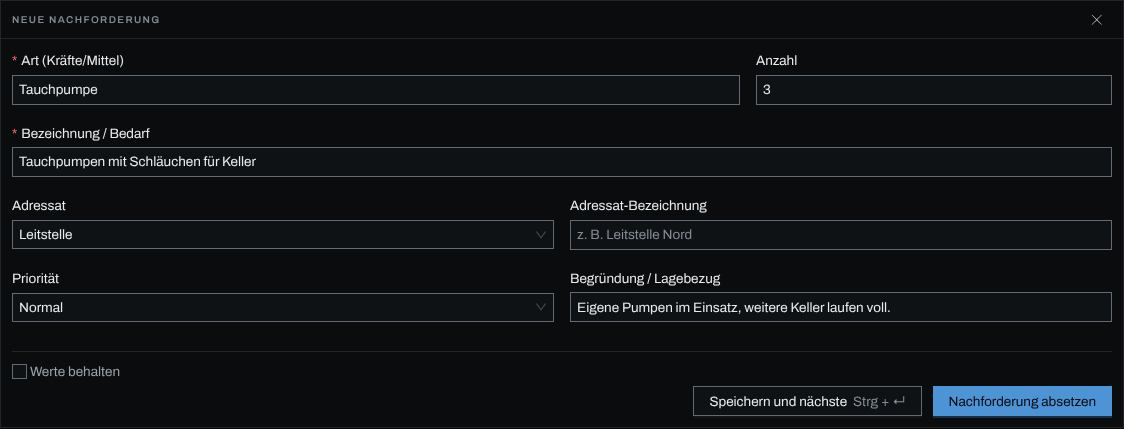
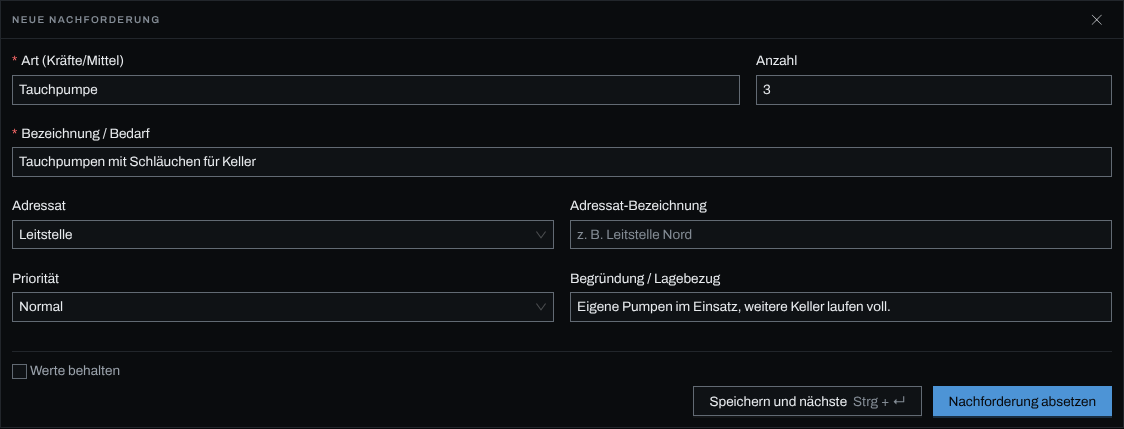
docs(anwender): Externe Stellen in Stammdaten, Einsatzdaten und Nachforderung
Neuer Ablauf „Externe Stellen pflegen“ und Hintergrund zur zuständigen
Leitstelle; Vorschläge bei der meldenden Stelle und der
Adressat-Bezeichnung, Speicherung als Text. Bild des Nachforderungs-
formulars neu erzeugt (Feld Adressat-Bezeichnung umgebaut).

LFH-1194

Claude-Session: https://claude.ai/code/session_01W9fQXgR1xM7fARsH7YveS4

diff --git a/docs/anwender/kapitel/stammdaten.md b/docs/anwender/kapitel/stammdaten.md
@@ -2,14 +2,14 @@
 titel: Stammdaten
 gruppen: [administration]
 reihenfolge: 620
-quellen: [frontend/src/admin/adminNav.tsx, frontend/src/stammdaten/FahrzeugeTab.tsx, frontend/src/stammdaten/FahrzeugFormModal.tsx, frontend/src/stammdaten/dienststatus.tsx, frontend/src/stammdaten/KatalogVerwaltung.tsx, frontend/src/stammdaten/QualifikationenTab.tsx, frontend/src/stammdaten/OrganisationTab.tsx, frontend/src/stammdaten/FuehrungsfunktionenTab.tsx, frontend/src/stammdaten/rechteText.ts, frontend/src/components/InlineAngabe.tsx, frontend/src/components/druck/Druckkopf.tsx, frontend/src/pages/lagekarte/taktischesZeichen.ts, frontend/src/einsatz/schreibrecht.ts, src/routes/organisation.rs]
+quellen: [frontend/src/admin/adminNav.tsx, frontend/src/stammdaten/FahrzeugeTab.tsx, frontend/src/stammdaten/FahrzeugFormModal.tsx, frontend/src/stammdaten/dienststatus.tsx, frontend/src/stammdaten/KatalogVerwaltung.tsx, frontend/src/stammdaten/QualifikationenTab.tsx, frontend/src/stammdaten/OrganisationTab.tsx, frontend/src/stammdaten/FuehrungsfunktionenTab.tsx, frontend/src/stammdaten/ExterneStellenTab.tsx, frontend/src/stammdaten/ExterneStelleFormModal.tsx, frontend/src/stammdaten/rechteText.ts, frontend/src/components/InlineAngabe.tsx, frontend/src/components/druck/Druckkopf.tsx, frontend/src/pages/lagekarte/taktischesZeichen.ts, frontend/src/einsatz/schreibrecht.ts, src/routes/organisation.rs, src/externe_stelle/repo.rs]
 ---
 
 ## Überblick
 
 Stammdaten sind das, was eine Organisation über jeden Einsatz hinweg vorhält: Fahrzeuge,
 Material und Personal, dazu die Kataloge, aus denen Einsätze schöpfen (Einsatz-Stichworte,
-Qualifikationen, Status, ETB-Schnellbausteine, Einheitstypen, Sprechgruppen,
+externe Stellen, Qualifikationen, Status, ETB-Schnellbausteine, Einheitstypen, Sprechgruppen,
 Führungsfunktionen), sowie Name, Logo und Zeichen der Organisation. Im Einsatz werden daraus
 Kräfte disponiert und Einträge vorbelegt.
 
@@ -57,6 +57,23 @@ gleich:
 4. Zum Entfernen „Deaktivieren“ wählen und die Rückfrage „Qualifikation deaktivieren?“ mit
    „Qualifikation deaktivieren“ bestätigen.
 
+### Externe Stellen pflegen
+
+Externe Stellen sind Leitstellen, Behörden, Polizei und Hilfsorganisationen, mit denen Einsätze
+zu tun haben. Sie erscheinen als Vorschlag bei der meldenden Stelle eines Einsatzes und beim
+Adressaten einer Nachforderung.
+
+1. Unter „Stammdaten“ „Externe Stellen“ öffnen.
+2. „Externe Stelle anlegen“ wählen.
+3. „Bezeichnung“ eintragen und die „Art“ wählen: Leitstelle, Polizei, Behörde,
+   Hilfsorganisation oder Sonstige.
+4. Bei der eigenen Leitstelle „Zuständige Leitstelle“ anhaken.
+5. Nach Bedarf „Rufnummer und Funkrufname“ aufklappen und beides eintragen.
+6. „Speichern“ wählen.
+
+Zum Entfernen in der Zeile „Deaktivieren“ wählen und mit „Stelle deaktivieren“ bestätigen. Eine
+deaktivierte Stelle lässt sich mit „Aktivieren“ zurückholen.
+
 ### Name, Logo und Zeichen der Organisation festlegen
 
 1. Unter „Stammdaten“ „Organisation“ öffnen.
@@ -96,6 +113,18 @@ Verwaltung nicht.
   zeigt den Stand von damals; nach „Wieder in Dienst nehmen“ wieder die aktuellen Stammdaten.
 - **Deaktivieren** nimmt einen Katalogeintrag aus der Auswahl. Bestehende Zuordnungen bleiben
   gültig.
+
+### Externe Stellen
+
+- Eine Stelle lässt sich nicht löschen, nur deaktivieren. Eine deaktivierte Stelle erscheint
+  nicht mehr als Vorschlag. Einsätze, die sie als meldende Stelle tragen, behalten den Text.
+- Einsätze und Nachforderungen speichern nur den Text der Stelle. Eine spätere Umbenennung im
+  Katalog ändert ältere Einsätze nicht.
+- Je Organisation ist höchstens eine Stelle die „Zuständige Leitstelle“, und nur eine aktive
+  Stelle der Art Leitstelle. Wer eine andere Leitstelle als zuständig markiert, nimmt der
+  bisherigen die Markierung ab; Deaktivieren nimmt sie ebenfalls. Die zuständige Leitstelle steht
+  in den Vorschlägen vorn und ist die Vorgabe für den Adressaten einer
+  [Nachforderung](nachforderung.md).
 
 ### Demo-Stammdaten
 

diff --git a/openspec/changes/lfh-1194-externe-stellen-katalog/tasks.md b/openspec/changes/lfh-1194-externe-stellen-katalog/tasks.md
@@ -20,18 +20,18 @@
 - [x] 3.2 Test zuerst `stammdaten/ExterneStelleFormModal.test.tsx`: Bezeichnung und Art sichtbar, Checkbox „Zuständige Leitstelle“ nur bei Art Leitstelle, Rufnummer und Funkrufname im Klappteil (Feldbudget mit `forceRender` und Gegenprobe), `maxLength` aus `eingabegrenzen.ts`, Enter sendet. Dann das Modal mit `ErfassungsModal` (D10). Prüfung: Tests grün.
 - [x] 3.3 Test zuerst `stammdaten/ExterneStellenTab.test.tsx`: Tabelle mit Art-Gruppen-Reihenfolge, Marke „zuständig“ als Wort, Filter Art und aktiv/inaktiv, Deaktivieren und Reaktivieren über das Aktionsmenü, ohne Admin-Recht gesperrt mit Grund. Dann den Tab mit `KatalogTabelle`. Prüfung: Tests grün.
 - [x] 3.4 Eintrag in `admin/adminNav.tsx` nach den Stichworten, nachgezogen in `adminNav.test.tsx`, `stammdaten/rechteGate.test.tsx` und `components/katalogTabelle.guard.test.ts` (`KATALOGE`). Prüfung: die drei Tests grün, Route `/admin/…/externe-stellen` erreichbar.
-- [ ] 3.5 Anwenderkapitel `docs/anwender/kapitel/stammdaten.md`: Katalog in der Aufzählung, Abschnitt zur zuständigen Leitstelle, `quellen:` ergänzt, Bild nach `docs/anwender/AGENTS.md` falls die fotografierte Ansicht sich ändert. Prüfung: `hilfe/anwenderdoku.guard.test.ts` grün.
+- [x] 3.5 Anwenderkapitel `docs/anwender/kapitel/stammdaten.md`: Katalog in der Aufzählung, Abschnitt zur zuständigen Leitstelle, `quellen:` ergänzt, Bild nach `docs/anwender/AGENTS.md` falls die fotografierte Ansicht sich ändert. Prüfung: `hilfe/anwenderdoku.guard.test.ts` grün.
 
 ## 4. Vorschläge in Einsatzdaten und Nachforderung
 
 - [x] 4.1 Test zuerst für `stammdaten/externeStellenVorschlaege` (D6): Gruppen in der Reihenfolge nach D2, zuständige Leitstelle vorn mit Marke, nur aktive Stellen, Teilwortsuche ohne Groß-/Kleinschreibung, `zustaendigeLeitstelle`. Dann das Modul. Prüfung: Tests grün.
 - [x] 4.2 Test zuerst in `pages/EinsatzdatenPage.test.tsx`: Zeile „Meldende Stelle“ zeigt gruppierte Vorschläge, Wahl sendet genau `{ meldende_stelle: "ILS Musterkreis" }`, Freitext wird gespeichert, unverändert sendet nichts, Vollformular mit denselben Vorschlägen, `maxLength` 200. Dann Umbau nach D7. Prüfung: Tests grün, bestehende Szenarien der Spec `einsatzdaten-bearbeitung` weiter grün.
 - [x] 4.3 Test zuerst in `nachforderungen/NachforderungFormular.test.tsx`: Vorbelegung mit der zuständigen Leitstelle beim Öffnen und nach dem Absetzen, auch wenn die Liste erst später kommt; eigene Eingabe bleibt bei Kategoriewechsel; ohne zuständige Leitstelle leer; Vorschläge vorhanden. Dann Umbau nach D8. Prüfung: Tests grün, Erfassungs-Norm-Tests (`Erfassung.test.tsx`) grün.
-- [ ] 4.4 Anwenderkapitel `einsatzdaten.md` (Vorschläge, Freitext bleibt) und `nachforderung.md` (Vorbelegung) samt `quellen:`. Prüfung: `hilfe/anwenderdoku.guard.test.ts` grün.
+- [x] 4.4 Anwenderkapitel `einsatzdaten.md` (Vorschläge, Freitext bleibt) und `nachforderung.md` (Vorbelegung) samt `quellen:`. Prüfung: `hilfe/anwenderdoku.guard.test.ts` grün.
 
 ## 5. Integration
 
-- [ ] 5.1 Playwright-Prüfung am laufenden Stack: Admin legt „ILS Musterkreis“ als zuständige Leitstelle an, ein zweiter Tab zeigt sie in den Einsatzdaten ohne Neuladen, die Nachforderung ist vorbelegt. Prüfung: Screenshot und Ablauf im PR.
+- [x] 5.1 Playwright-Prüfung am laufenden Stack: Admin legt „ILS Musterkreis“ als zuständige Leitstelle an, ein zweiter Tab zeigt sie in den Einsatzdaten ohne Neuladen, die Nachforderung ist vorbelegt. Prüfung: Screenshot und Ablauf im PR.
 - [ ] 5.2 `./scripts/check-all.sh` vollständig grün. Prüfung: Gesamtstatus aus dem Lauf (bzw. CI des PRs).
 
 ## Workflow follow-up

diff --git a/docs/anwender/kapitel/nachforderung.md b/docs/anwender/kapitel/nachforderung.md
@@ -2,7 +2,7 @@
 titel: Nachforderung
 gruppen: [fuehrung]
 reihenfolge: 140
-quellen: [frontend/src/pages/NachforderungenPage.tsx, frontend/src/nachforderungen/NachforderungFormular.tsx, frontend/src/nachforderungen/NachforderungKarte.tsx, frontend/src/kommunikation/phase.ts, frontend/src/kommunikation/rueckgaengig.tsx, frontend/src/pages/VerpflegungPage.tsx, src/routes/nachforderung.rs, src/nachforderung/repo.rs, src/nachforderung/mod.rs]
+quellen: [frontend/src/pages/NachforderungenPage.tsx, frontend/src/nachforderungen/NachforderungFormular.tsx, frontend/src/nachforderungen/NachforderungKarte.tsx, frontend/src/kommunikation/phase.ts, frontend/src/kommunikation/rueckgaengig.tsx, frontend/src/pages/VerpflegungPage.tsx, src/routes/nachforderung.rs, src/nachforderung/repo.rs, src/nachforderung/mod.rs, frontend/src/stammdaten/externeStellenVorschlaege.ts]
 ---
 
 ## Überblick
@@ -30,7 +30,8 @@ Für Einsatzleitung und Führungspersonal:
 
 3. Unter „Bezeichnung / Bedarf“ den Bedarf genauer beschreiben.
 4. Den „Adressat“ wählen: „Leitstelle“ (vorbelegt), „Nachbar-Einsatzabschnitt“, „Übergeordnete
-   Führung“ oder „Andere BOS“. Bei Bedarf unter „Adressat-Bezeichnung“ die Stelle genauer nennen.
+   Führung“ oder „Andere BOS“. Bei Bedarf unter „Adressat-Bezeichnung“ die Stelle genauer nennen;
+   beim Tippen schlägt die App die externen Stellen aus den Stammdaten vor.
 5. „Priorität“ setzen und unter „Begründung / Lagebezug“ den Grund eintragen.
 6. „Nachforderung absetzen“ wählen.
 
@@ -72,6 +73,13 @@ Eine abgelehnte Nachforderung ist abgeschlossen und lässt sich nicht wieder öf
 Jede abgesetzte Nachforderung schreibt einen ETB-Eintrag vom Typ „Meldung“ mit dem Inhalt
 „Nachforderung: … × Art — Bezeichnung“, die Begründung als Veranlassung. Dieser Eintrag entsteht
 immer, unabhängig von „Automatische ETB-Einträge“ (siehe [Einsatztagebuch](einsatztagebuch.md)).
+
+### Zuständige Leitstelle als Vorgabe
+
+Ist in den [Stammdaten](stammdaten.md) eine externe Stelle als „Zuständige Leitstelle“
+markiert, steht sie bei „Adressat“ „Leitstelle“ schon in der „Adressat-Bezeichnung“, auch nach
+dem Absetzen. Ein selbst eingetragener Wert wird dabei nie überschrieben. Gespeichert wird nur
+der Text.
 
 ### Aus der Verpflegung nachfordern
 

diff --git a/docs/anwender/kapitel/einsatzdaten.md b/docs/anwender/kapitel/einsatzdaten.md
@@ -2,7 +2,7 @@
 titel: Einsatzdaten und Führungsstelle
 gruppen: [fuehrung]
 reihenfolge: 410
-quellen: [frontend/src/pages/EinsatzdatenPage.tsx, frontend/src/components/InlineAngabe.tsx, frontend/src/pages/MitgliederAbschnitt.tsx, frontend/src/einsatz/schreibrecht.ts, frontend/src/api/queryKeys.ts, src/routes/einsatz.rs, src/routes/einsatz_fuehrungsstelle.rs, src/einsatz/repo.rs]
+quellen: [frontend/src/pages/EinsatzdatenPage.tsx, frontend/src/components/InlineAngabe.tsx, frontend/src/pages/MitgliederAbschnitt.tsx, frontend/src/einsatz/schreibrecht.ts, frontend/src/api/queryKeys.ts, src/routes/einsatz.rs, src/routes/einsatz_fuehrungsstelle.rs, src/einsatz/repo.rs, frontend/src/stammdaten/externeStellenVorschlaege.ts]
 ---
 
 ## Überblick
@@ -28,6 +28,10 @@ gehört. Den Zugriff verwaltet nur die Einsatzleitung.
 
 So lassen sich Einsatzstichwort, Alarmzeit, Einsatzort, Einsatzart, Nächste Lagebesprechung,
 Meldende Stelle, Sachverhalt / Meldebild und Anzahl Betroffene (initial) ändern.
+
+Bei „Meldende Stelle“ schlägt die App beim Tippen die externen Stellen aus den
+[Stammdaten](stammdaten.md) vor, nach Art gruppiert. Ein Vorschlag lässt sich wählen oder ein
+anderer Text eintragen.
 
 ### Alle Angaben auf einmal bearbeiten
 
@@ -101,6 +105,12 @@ aufgenommen ist, verschwindet aus der Auswahl, wer entfernt wird, steht wieder d
   freigegeben ist.
 - Die **Führungsstelle eines Mitglieds** ist der erste Vorschlag, wenn das Einsatztagebuch die
   Person nach ihrem Rufnamen fragt, noch vor ihrem eigenen Sachgebiet im Stab.
+
+### Meldende Stelle und Katalog
+
+Gespeichert wird nur der Text der meldenden Stelle, kein Verweis auf den Katalog. Wird eine
+externe Stelle später umbenannt oder deaktiviert, behält der Einsatz den Text von damals. Die
+meldende Stelle darf höchstens 200 Zeichen lang sein.
 
 ### Ohne Netz
 
